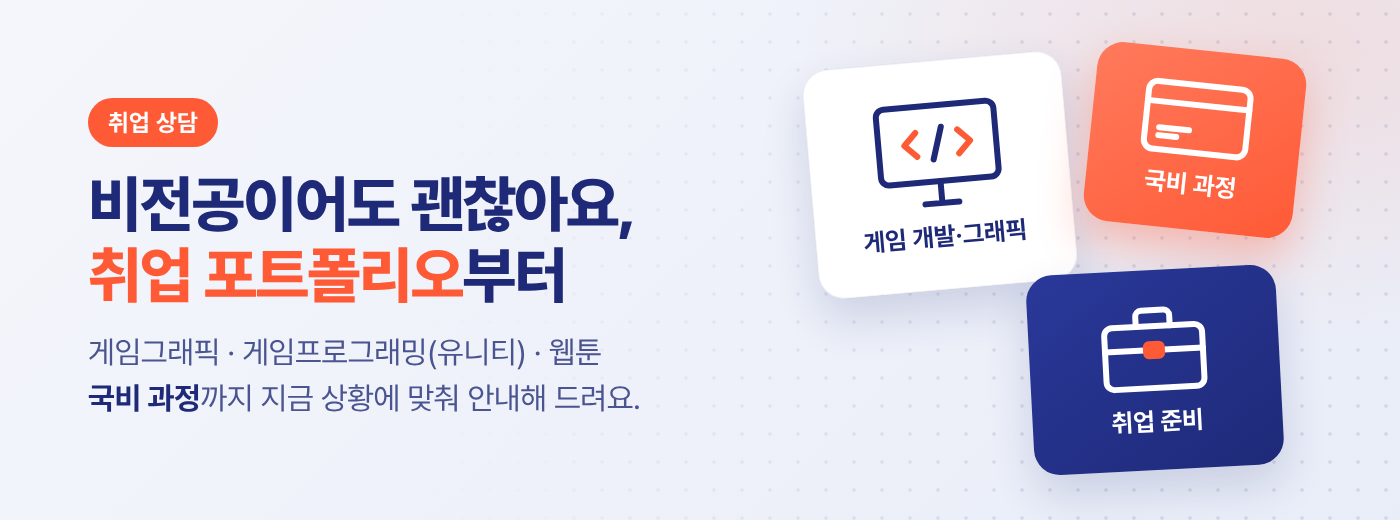
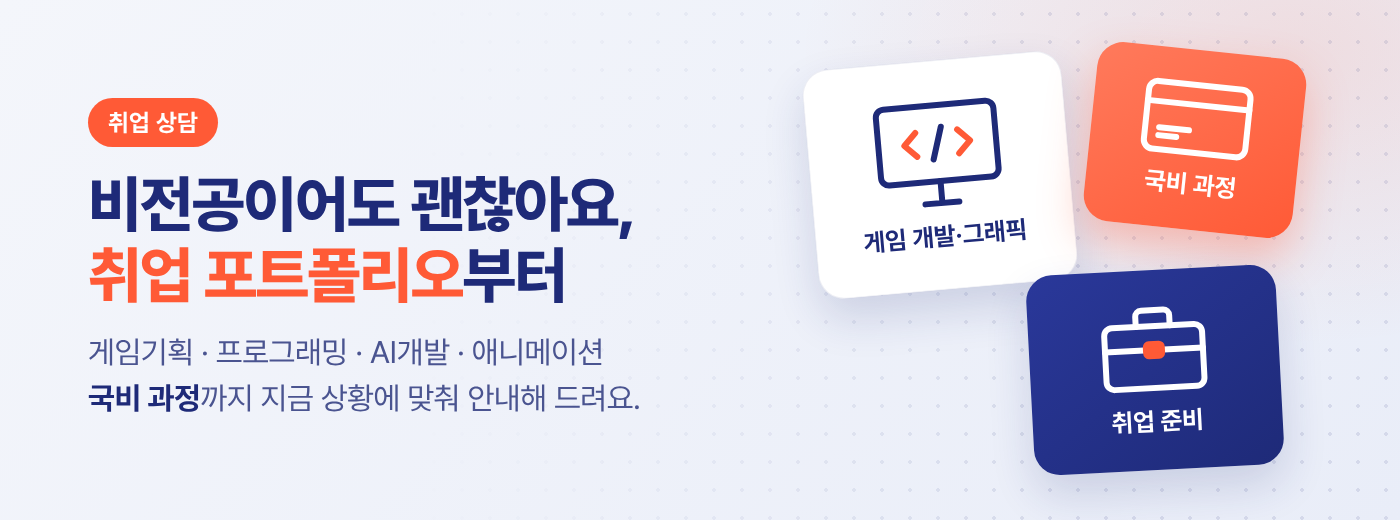
폼 이미지 수정: 머리글에 AI개발·애니메이션 추가, 취업 섹션 문구 변경
Claude-Session: https://claude.ai/code/session_01MaNjEE5MqxtV8eaMbLXWJL

Changed region(s): [[0.0921, 0.6462, 0.43, 0.7077]]

diff --git a/tools/google-form/assets/src/폼_머리글.html b/tools/google-form/assets/src/폼_머리글.html
@@ -69,21 +69,34 @@ h1 b{color:#FF5A36}
       </svg><span>3D 그래픽</span>
     </div>
     <!-- 코드 -->
-    <div class="card" style="left:440px;top:212px;width:170px;height:140px;transform:rotate(-5deg)">
+    <div class="card" style="left:450px;top:186px;width:170px;height:130px;transform:rotate(-5deg)">
       <svg width="70" height="52" viewBox="0 0 70 52" fill="none" stroke="#fff" stroke-width="5" stroke-linecap="round" stroke-linejoin="round">
         <path d="M20 10L6 26l14 16M50 10l14 16-14 16"/><path d="M40 6L30 46" stroke="#FF5A36"/>
       </svg><span>프로그래밍</span>
     </div>
     <!-- 웹소설 책 -->
-    <div class="card" style="left:250px;top:318px;width:140px;height:64px;flex-direction:row;transform:rotate(2deg)">
+    <div class="card" style="left:190px;top:322px;width:130px;height:64px;flex-direction:row;transform:rotate(-2deg)">
       <svg width="34" height="28" viewBox="0 0 34 28" fill="none" stroke="#fff" stroke-width="3" stroke-linejoin="round"><path d="M17 5C12 1 6 1 2 3v22c4-2 10-2 15 2 5-4 11-4 15-2V3c-4-2-10-2-15 2zM17 5v22"/></svg>
       <span>웹소설</span>
+    </div>
+    <!-- AI개발 -->
+    <div class="card" style="left:245px;top:14px;width:150px;height:64px;flex-direction:row;transform:rotate(-2deg)">
+      <svg width="34" height="34" viewBox="0 0 34 34" fill="none" stroke="#fff" stroke-width="3" stroke-linecap="round" stroke-linejoin="round">
+        <rect x="7" y="7" width="20" height="20" rx="4"/><path d="M12 2v5M22 2v5M12 27v5M22 27v5M2 12h5M2 22h5M27 12h5M27 22h5"/>
+        <path d="M13 21l2.5-8h3L21 21M14 18h6" stroke="#FF5A36" stroke-width="2.4"/>
+      </svg><span>AI개발</span>
+    </div>
+    <!-- 애니메이션 -->
+    <div class="card" style="left:332px;top:320px;width:160px;height:64px;flex-direction:row;transform:rotate(3deg)">
+      <svg width="34" height="30" viewBox="0 0 34 30" fill="none" stroke="#fff" stroke-width="3" stroke-linejoin="round" stroke-linecap="round">
+        <rect x="2" y="3" width="30" height="24" rx="4"/><path d="M8 3v24M26 3v24"/><path d="M14 10l7 5-7 5z" fill="#FF5A36" stroke="#FF5A36" stroke-width="2"/>
+      </svg><span>애니메이션</span>
     </div>
     <i class="spark o" style="left:196px;top:62px"></i>
     <i class="spark" style="left:430px;top:190px"></i>
     <i class="spark o" style="left:620px;top:200px;width:6px;height:6px"></i>
     <i class="spark" style="left:10px;top:200px;width:6px;height:6px"></i>
-    <i class="spark" style="left:400px;top:14px;width:6px;height:6px"></i>
+    <i class="spark" style="left:430px;top:40px;width:6px;height:6px"></i>
   </div>
 </div>
 </body></html>

diff --git a/tools/google-form/assets/src/폼_취업.html b/tools/google-form/assets/src/폼_취업.html
@@ -3,7 +3,7 @@
  <div class="txt">
   <div class="chip o">취업 상담</div>
   <h2>비전공이어도 괜찮아요,<br><b>취업 포트폴리오</b>부터</h2>
-  <p class="sub">게임그래픽 · 게임프로그래밍(유니티) · 웹툰<br><strong>국비 과정</strong>까지 지금 상황에 맞춰 안내해 드려요.</p>
+  <p class="sub">게임기획 · 프로그래밍 · AI개발 · 애니메이션<br><strong>국비 과정</strong>까지 지금 상황에 맞춰 안내해 드려요.</p>
  </div>
  <div class="art">
   <!-- 모니터 -->
